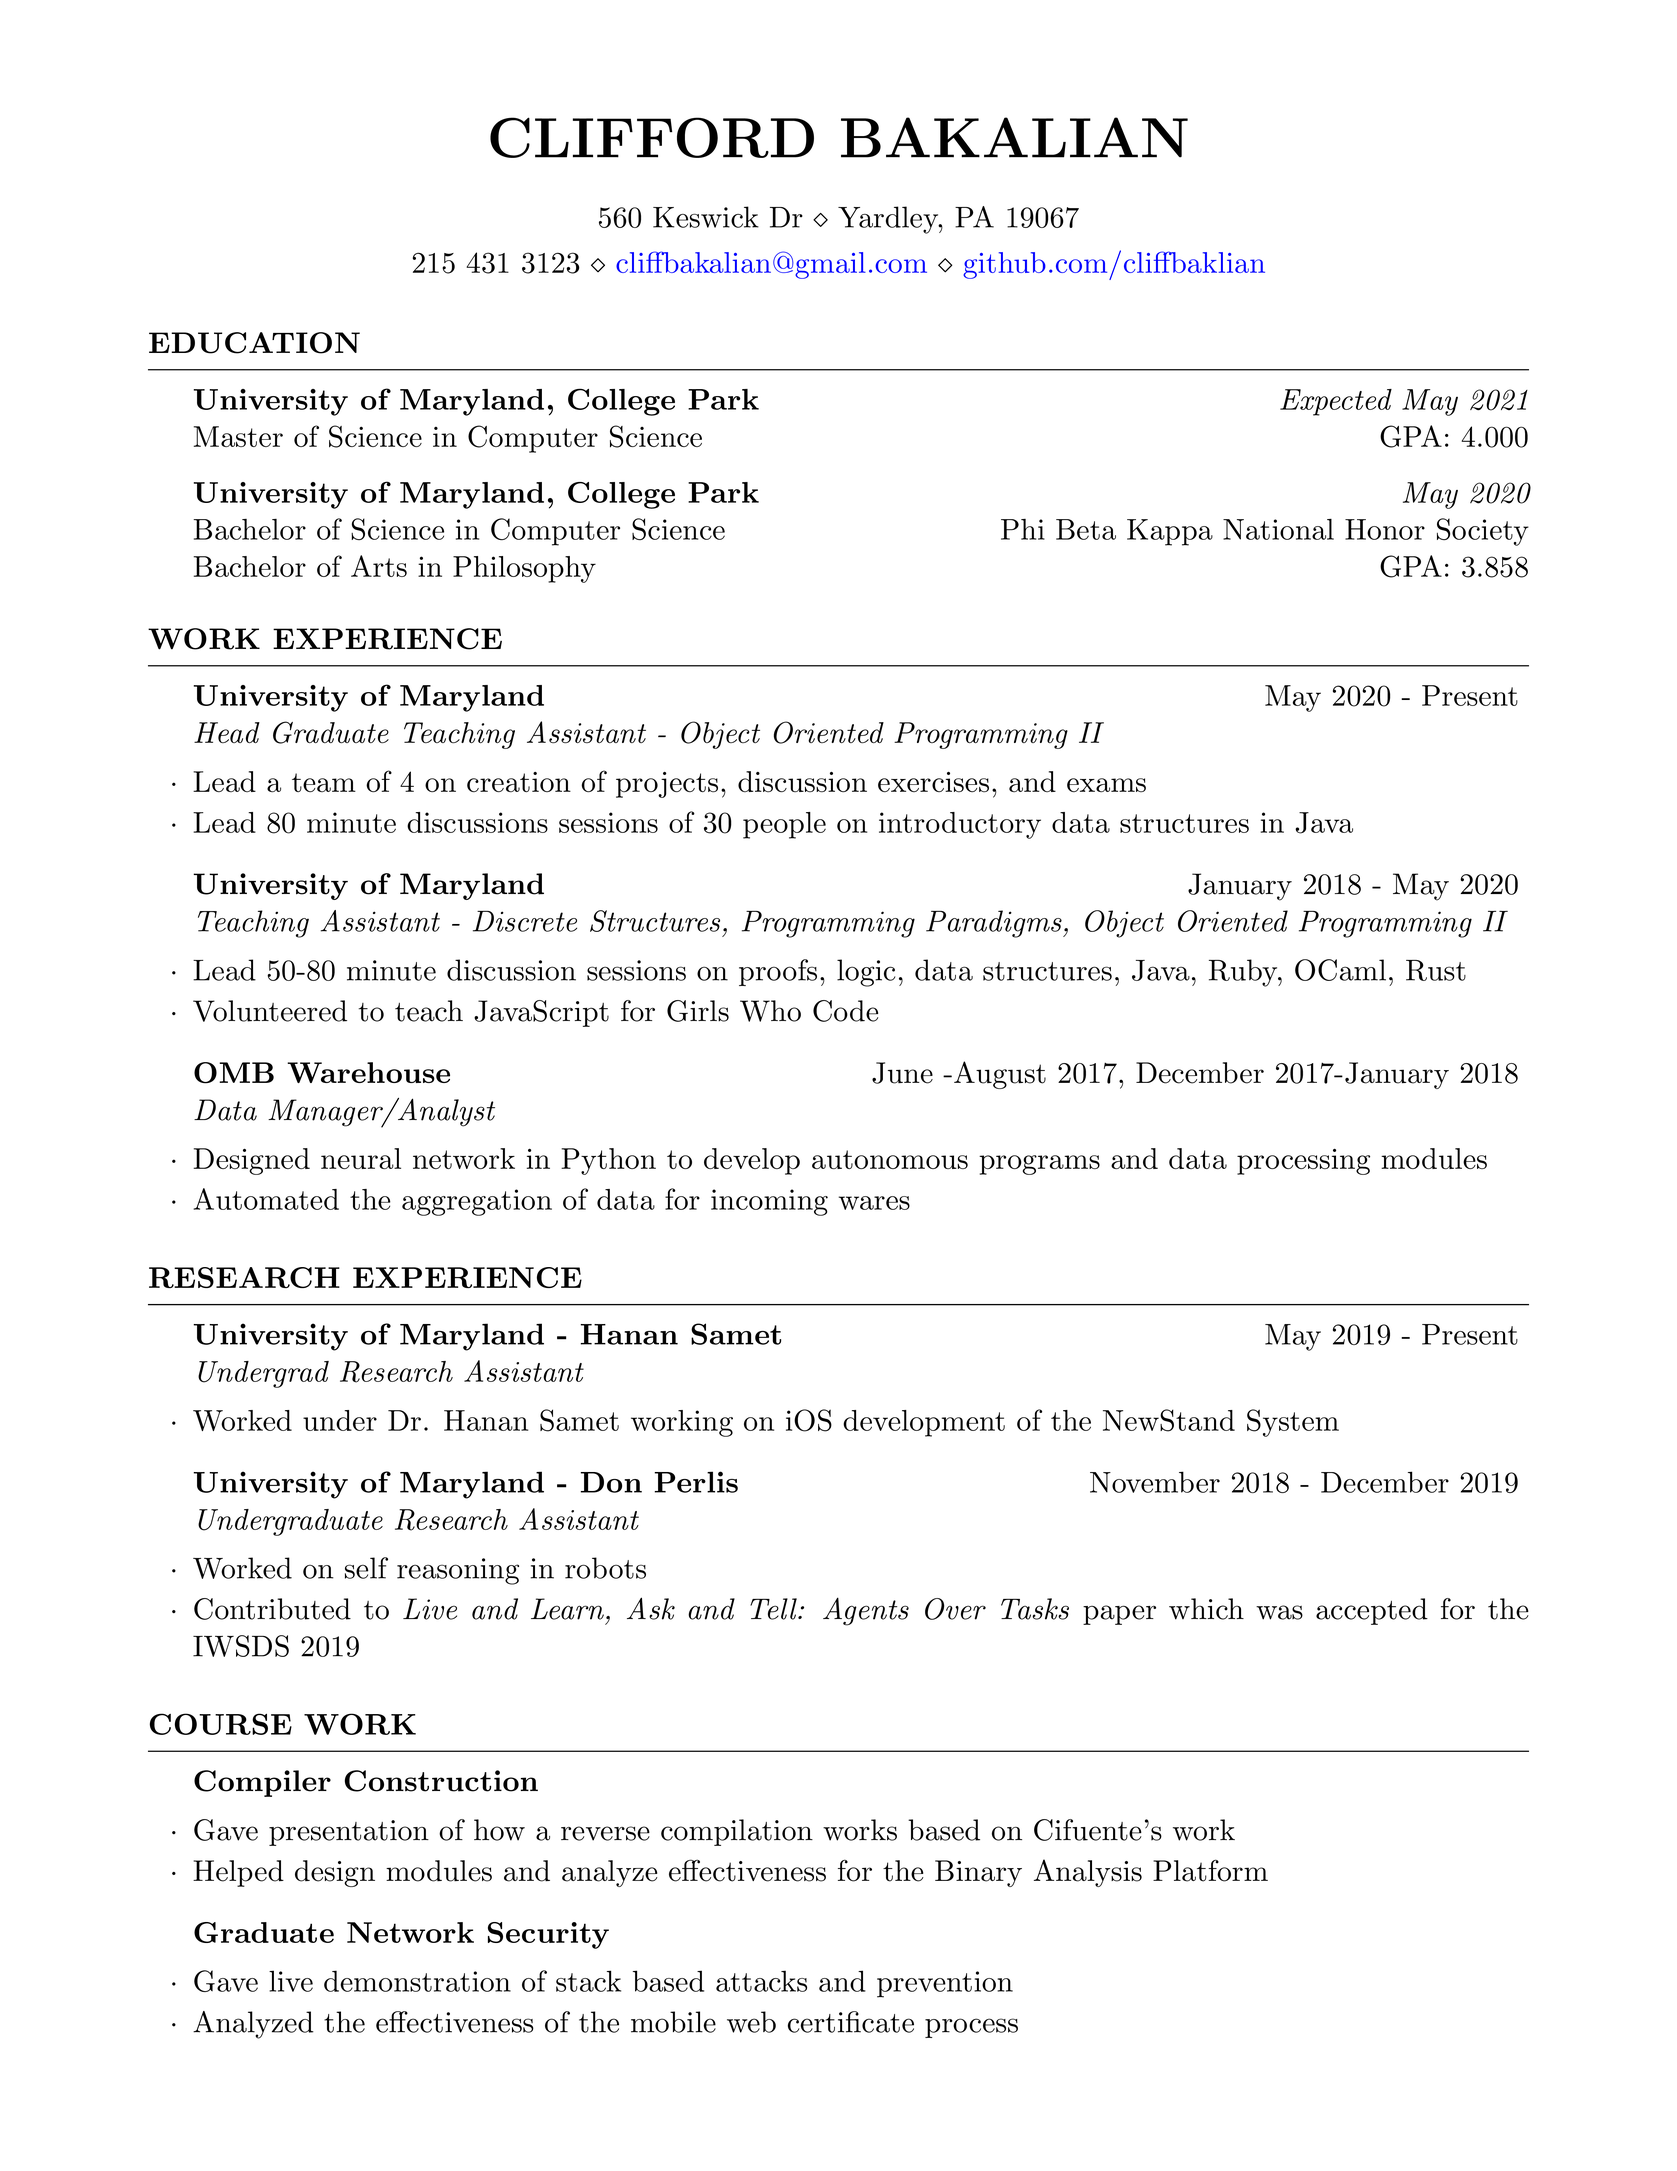
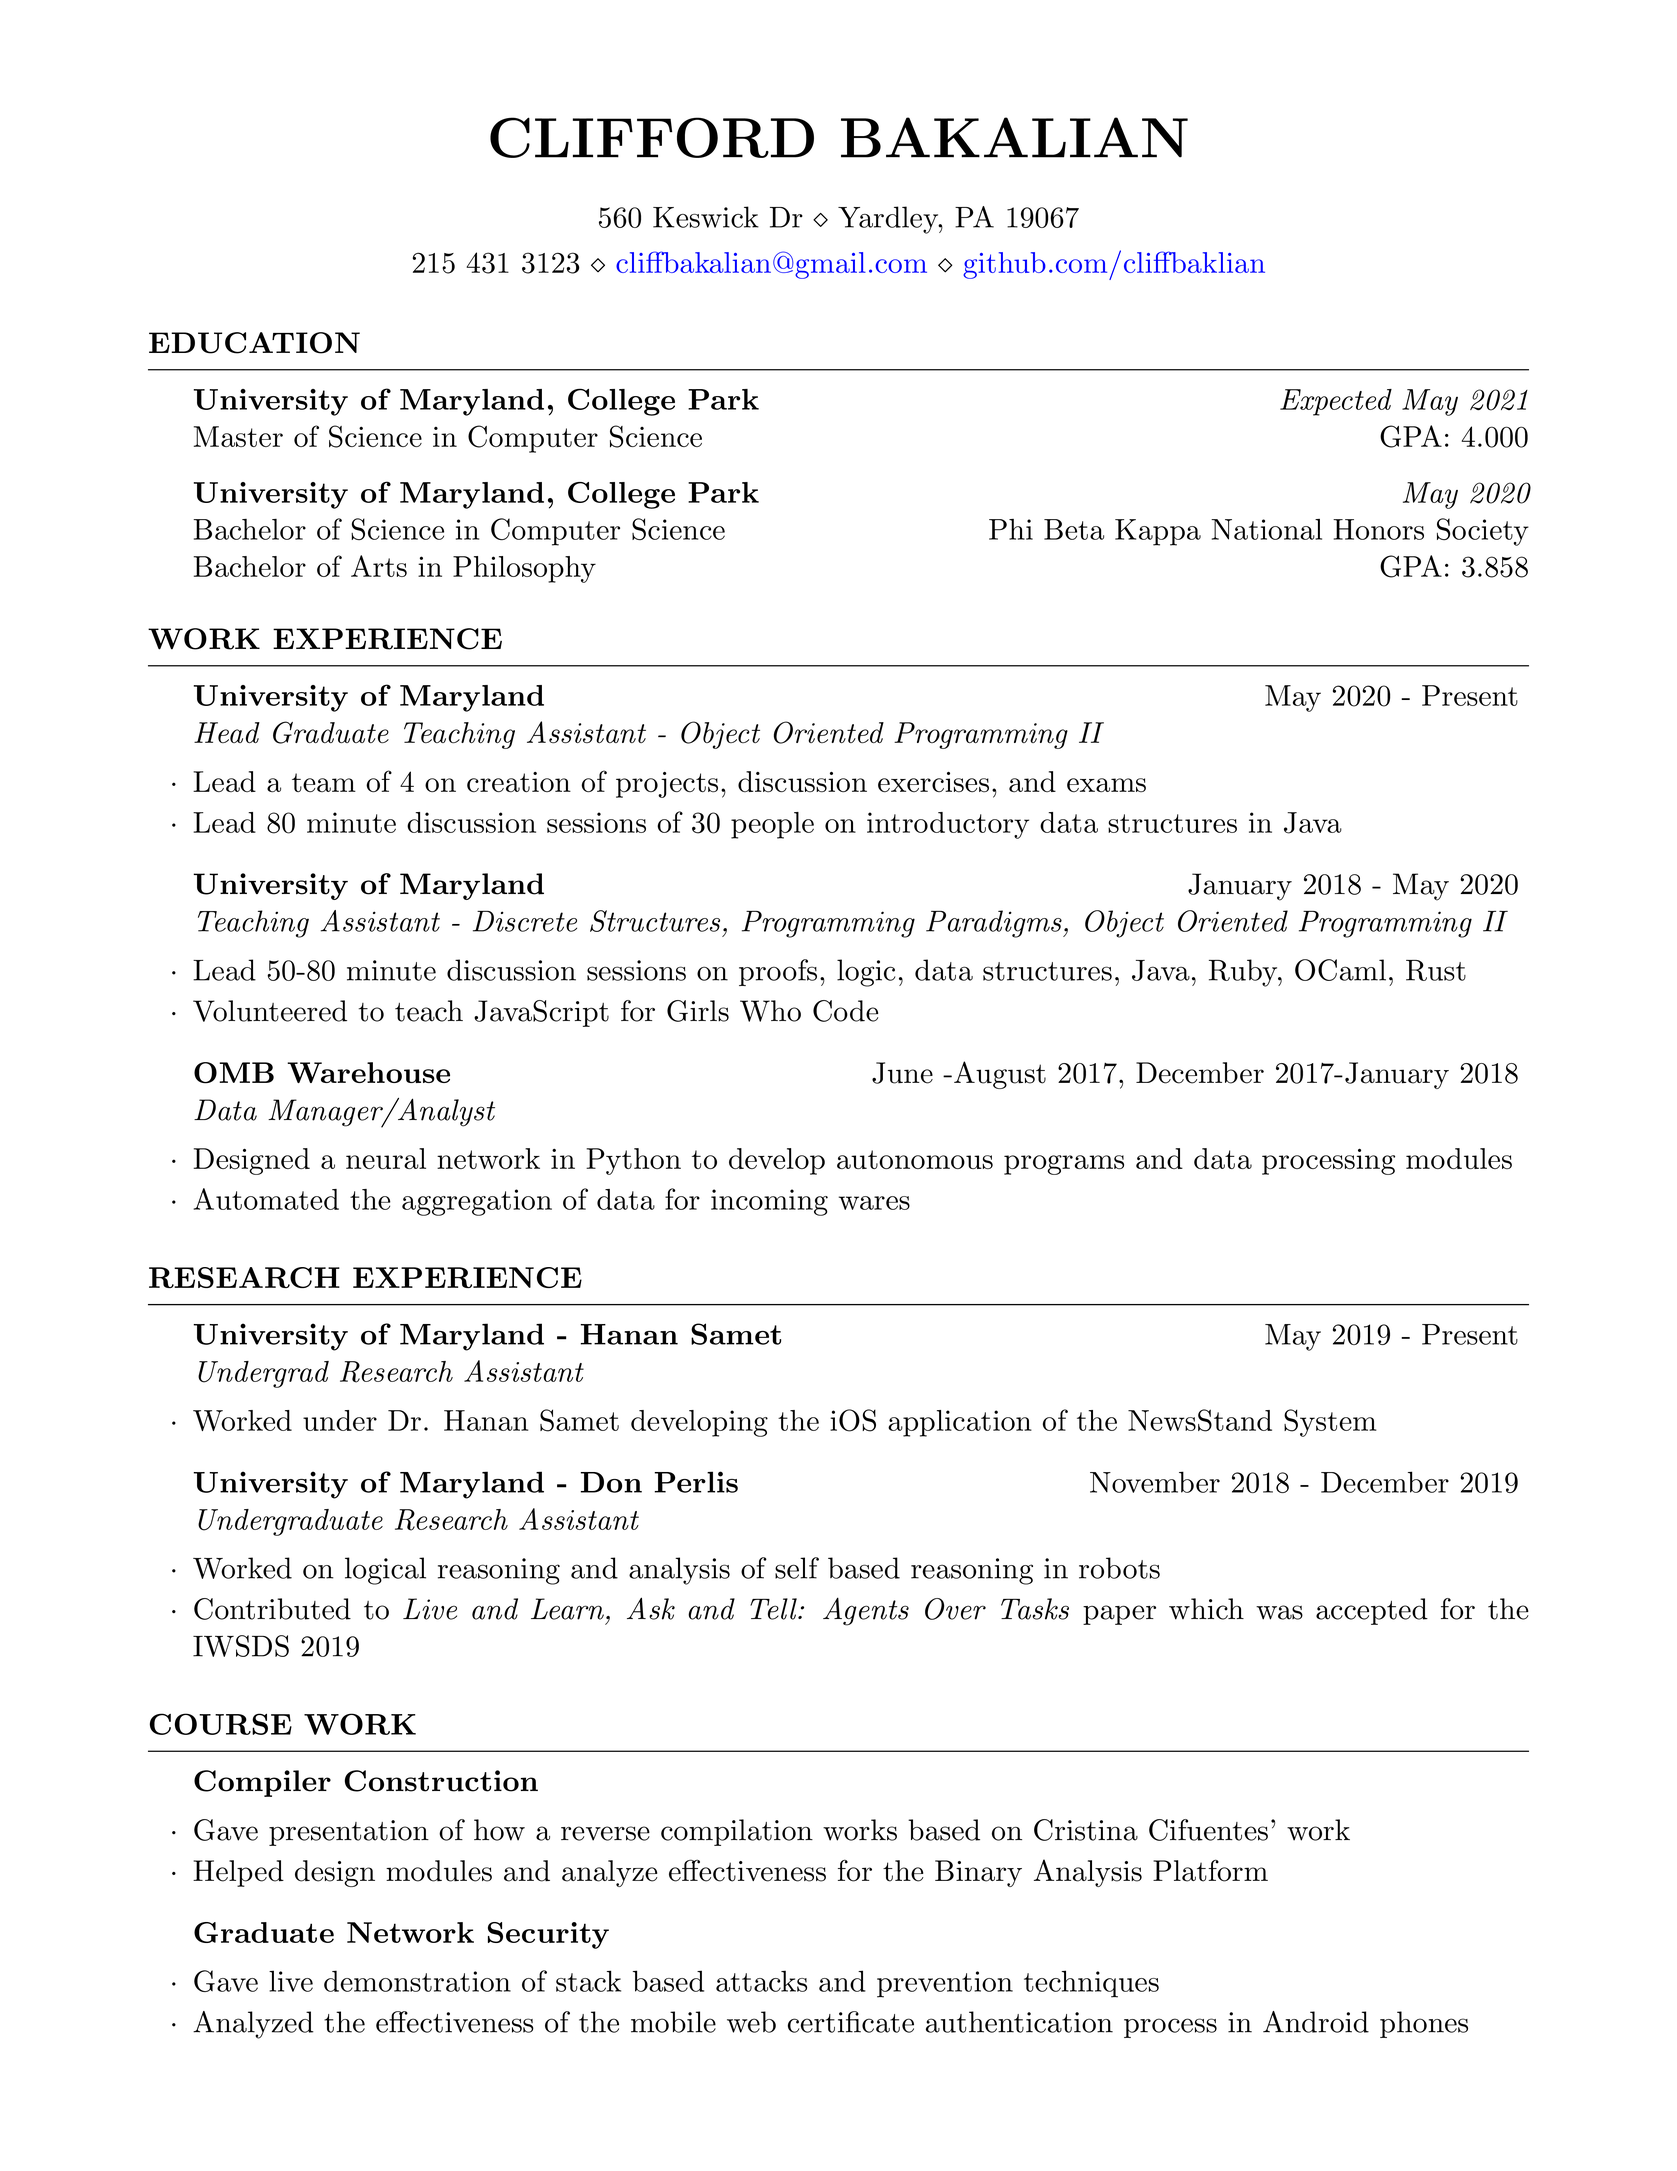
made Makefile and fixed typos

diff --git a/resume.tex b/resume.tex
@@ -50,7 +50,7 @@
 Master of Science in  Computer Science \hfill {GPA: 4.000}
 
 {\bf University of Maryland, College Park} \hfill {\em May 2020} \\ 
-Bachelor of Science in  Computer Science \hfill {Phi Beta Kappa National Honor Society}\\
+Bachelor of Science in  Computer Science \hfill {Phi Beta Kappa National Honors Society}\\
 Bachelor of Arts in Philosophy \hfill {GPA: 3.858}
 
 \end{rSection}
@@ -63,7 +63,7 @@ Bachelor of Arts in Philosophy \hfill {GPA: 3.858}
 
 \begin{rSubsection}{University of Maryland}{May 2020 - Present}{Head Graduate Teaching Assistant - Object Oriented Programming II}{}
 \item Lead a team of 4 on creation of projects, discussion exercises, and exams 
-\item Lead 80 minute discussions sessions of 30 people on introductory data structures in Java
+\item Lead 80 minute discussion sessions of 30 people on introductory data structures in Java
 \end{rSubsection}
 
 \begin{rSubsection}{University of Maryland}{January 2018 - May 2020}{Teaching Assistant - Discrete Structures, Programming Paradigms, Object Oriented Programming II}{}
@@ -72,7 +72,7 @@ Bachelor of Arts in Philosophy \hfill {GPA: 3.858}
 \end{rSubsection}
 
 \begin{rSubsection}{OMB Warehouse}{June -August 2017, December 2017-January 2018}{Data Manager/Analyst}{}
-\item Designed neural network in Python to develop autonomous programs and data processing modules
+\item Designed a neural network in Python to develop autonomous programs and data processing modules
 \item Automated the aggregation of data for incoming wares
 \end{rSubsection}
 
@@ -86,11 +86,11 @@ Bachelor of Arts in Philosophy \hfill {GPA: 3.858}
 \begin{rSection}{Research Experience}
 
 \begin{rSubsection}{University of Maryland - Hanan Samet}{May 2019 - Present}{Undergrad Research Assistant}{}
-\item Worked under Dr. Hanan Samet working on iOS development of the NewStand System
+\item Worked under Dr. Hanan Samet developing the iOS application of the NewsStand System
 \end{rSubsection}
 
 \begin{rSubsection}{University of Maryland - Don Perlis}{November 2018 - December 2019}{Undergraduate Research Assistant}{}
-\item Worked on self reasoning in robots
+\item Worked on logical reasoning and analysis of self based reasoning in robots
 \item Contributed to \textit{Live and Learn, Ask and Tell: Agents Over Tasks} paper which was accepted for the IWSDS 2019
 \end{rSubsection}
 
@@ -104,13 +104,13 @@ Bachelor of Arts in Philosophy \hfill {GPA: 3.858}
 \begin{rSection}{Course Work}
 
 \begin{rSubsection}{Compiler Construction}{}{}{}
-\item Gave presentation of how a reverse compilation works based on Cifuente's work
+\item Gave presentation of how a reverse compilation works based on  Cristina Cifuentes' work
 \item Helped design modules and analyze effectiveness for the Binary Analysis Platform
 \end{rSubsection}
 
 \begin{rSubsection}{Graduate Network Security}{}{}{}
-\item Gave live demonstration of stack based attacks and prevention
-\item Analyzed the effectiveness of the mobile web certificate process
+\item Gave live demonstration of stack based attacks and prevention techniques
+\item Analyzed the effectiveness of the mobile web certificate authentication process in Android phones
 \end{rSubsection}
 
 \end{rSection}
